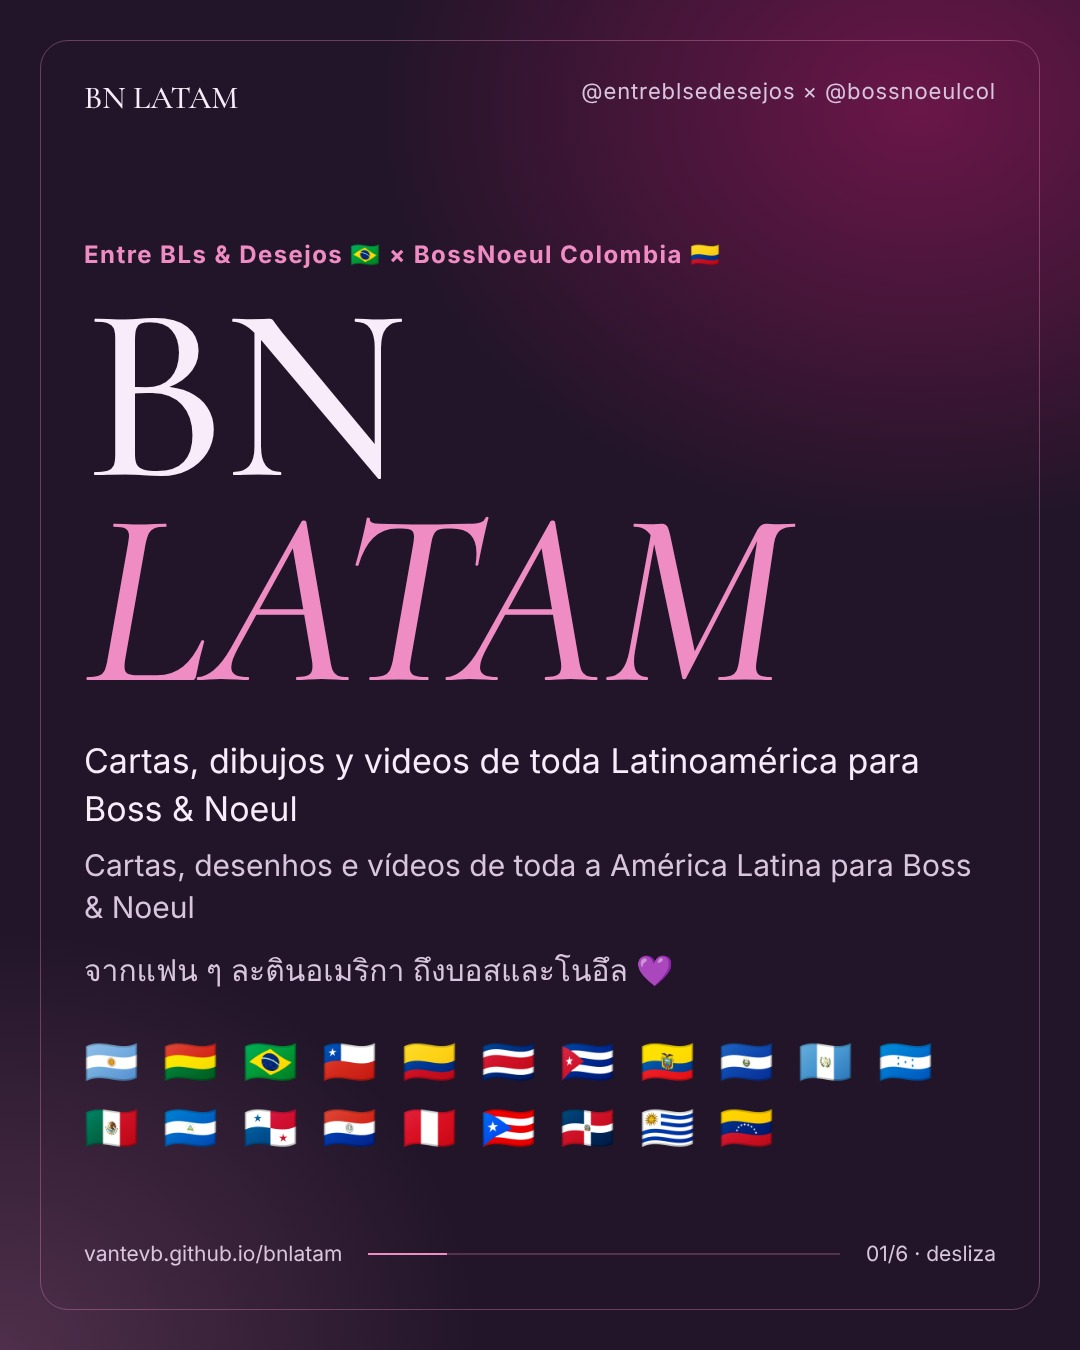
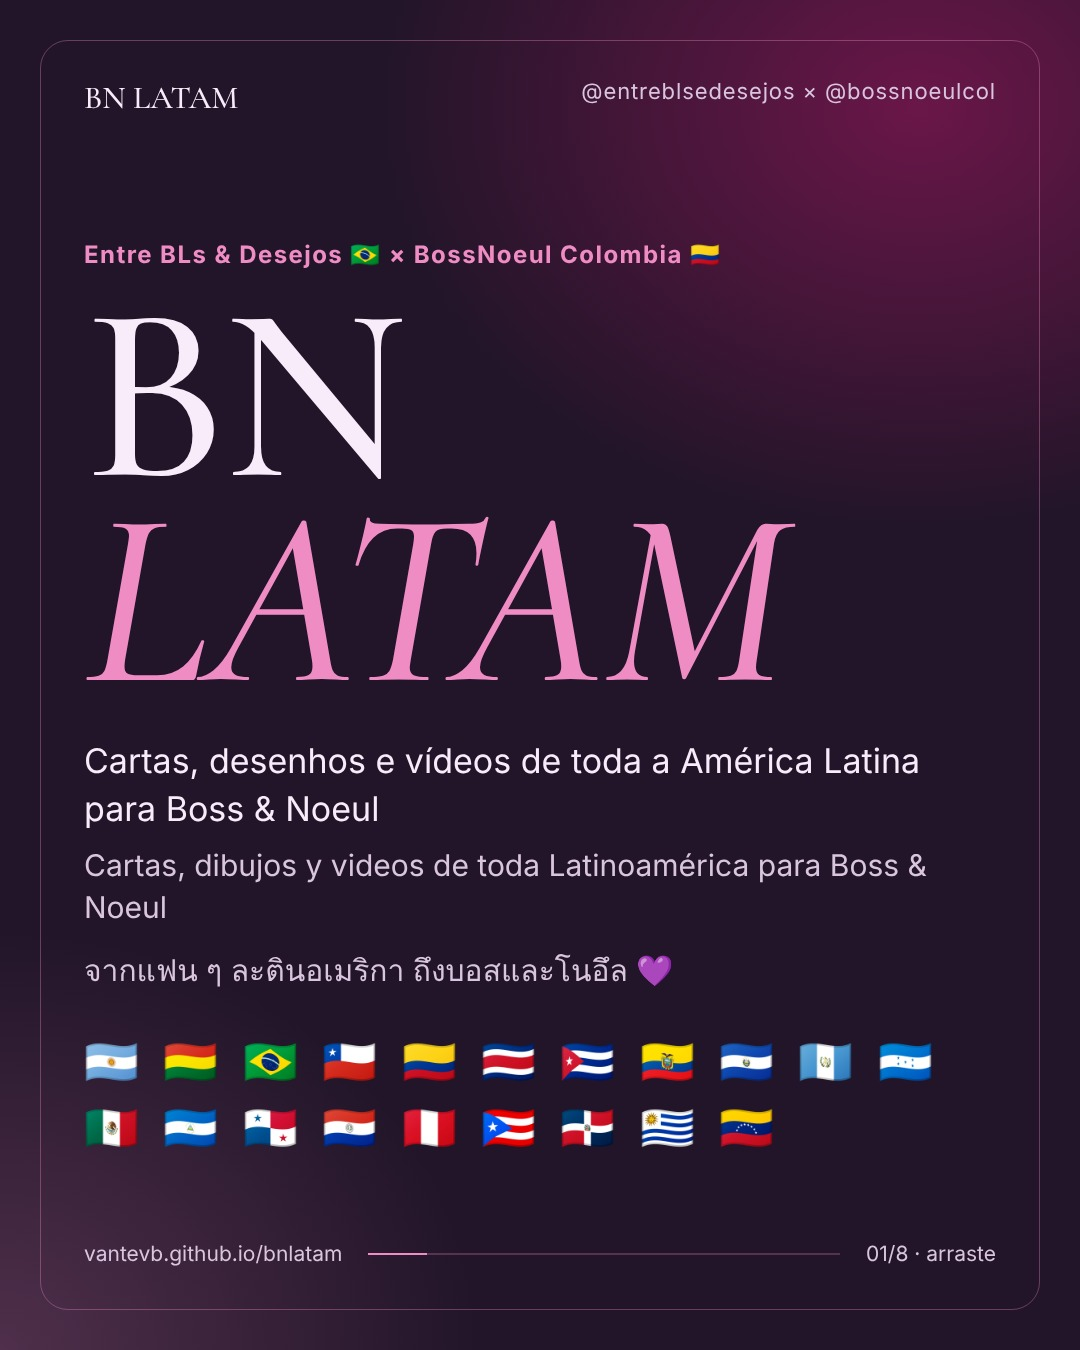
Kit collab: esquenta (3 pistas) + carrossel de lançamento v3
Claude-Session: https://claude.ai/code/session_01MRpdQbs4myKLU8PEdSBy3X

Changed region(s): [[0.0611, 0.56, 0.8861, 0.6533], [0.0611, 0.6533, 0.1833, 0.6844], [0.8556, 0.9022, 0.9167, 0.9333]]

diff --git a/collab/index.html b/collab/index.html
@@ -15,6 +15,30 @@ h2{font-family:Georgia,serif;font-weight:500;color:var(--pink);margin-top:36px}
 </style></head><body><main>
 <h1>BN LATAM · <i>Collab</i></h1>
 <p class="sub">Entre BLs &amp; Desejos 🇧🇷 × BossNoeul Colombia 🇨🇴 · Propuesta de post / Proposta de post</p>
+<h2>1 · Calentamiento / Esquenta (29, 30 y 31/10 · 17h Colombia / 19h Brasil)</h2>
+<div class="grid">
+<a href="BNLATAM_teaser_1.jpg" download><img src="BNLATAM_teaser_1.jpg" alt="Pista 1"></a>
+<a href="BNLATAM_teaser_2.jpg" download><img src="BNLATAM_teaser_2.jpg" alt="Pista 2"></a>
+<a href="BNLATAM_teaser_3.jpg" download><img src="BNLATAM_teaser_3.jpg" alt="Pista 3"></a>
+</div>
+<pre>PISTA 1 (29/10)
+💜 Algo vem aí… / Algo viene…
+Da América Latina para a Tailândia, com muito amor.
+De Latinoamérica para Tailandia, con mucho amor.
+📅 01·11
+#BNLATAM #BossNoeul #BOSSCKM #Noeulnuttarat
+
+PISTA 2 (30/10)
+✉🎨🎥 Papel e caneta? Lápis de cor? Câmera ligada?
+Prepare seu coração… / Prepara tu corazón…
+📅 01·11
+#BNLATAM #BossNoeul
+
+PISTA 3 (31/10)
+Amanhã. / Mañana. 💜
+Uma mensagem de um continente inteiro. / Un mensaje de toda una región.
+#BNLATAM #BossNoeul</pre>
+<h2>2 · Lanzamiento / Lançamento (01/11)</h2>
 <div class="grid">
 <a href="BNLATAM_collab_01.jpg" download><img src="BNLATAM_collab_01.jpg" alt="Slide 1"></a>
 <a href="BNLATAM_collab_02.jpg" download><img src="BNLATAM_collab_02.jpg" alt="Slide 2"></a>
@@ -22,6 +46,8 @@ h2{font-family:Georgia,serif;font-weight:500;color:var(--pink);margin-top:36px}
 <a href="BNLATAM_collab_04.jpg" download><img src="BNLATAM_collab_04.jpg" alt="Slide 4"></a>
 <a href="BNLATAM_collab_05.jpg" download><img src="BNLATAM_collab_05.jpg" alt="Slide 5"></a>
 <a href="BNLATAM_collab_06.jpg" download><img src="BNLATAM_collab_06.jpg" alt="Slide 6"></a>
+<a href="BNLATAM_collab_07.jpg" download><img src="BNLATAM_collab_07.jpg" alt="Slide 7"></a>
+<a href="BNLATAM_collab_08.jpg" download><img src="BNLATAM_collab_08.jpg" alt="Slide 8"></a>
 </div>
 <p class="sub" style="margin-top:12px">Toca cada imagen para descargarla · Toque em cada imagem para baixar</p>
 <h2>Texto / Legenda</h2>
